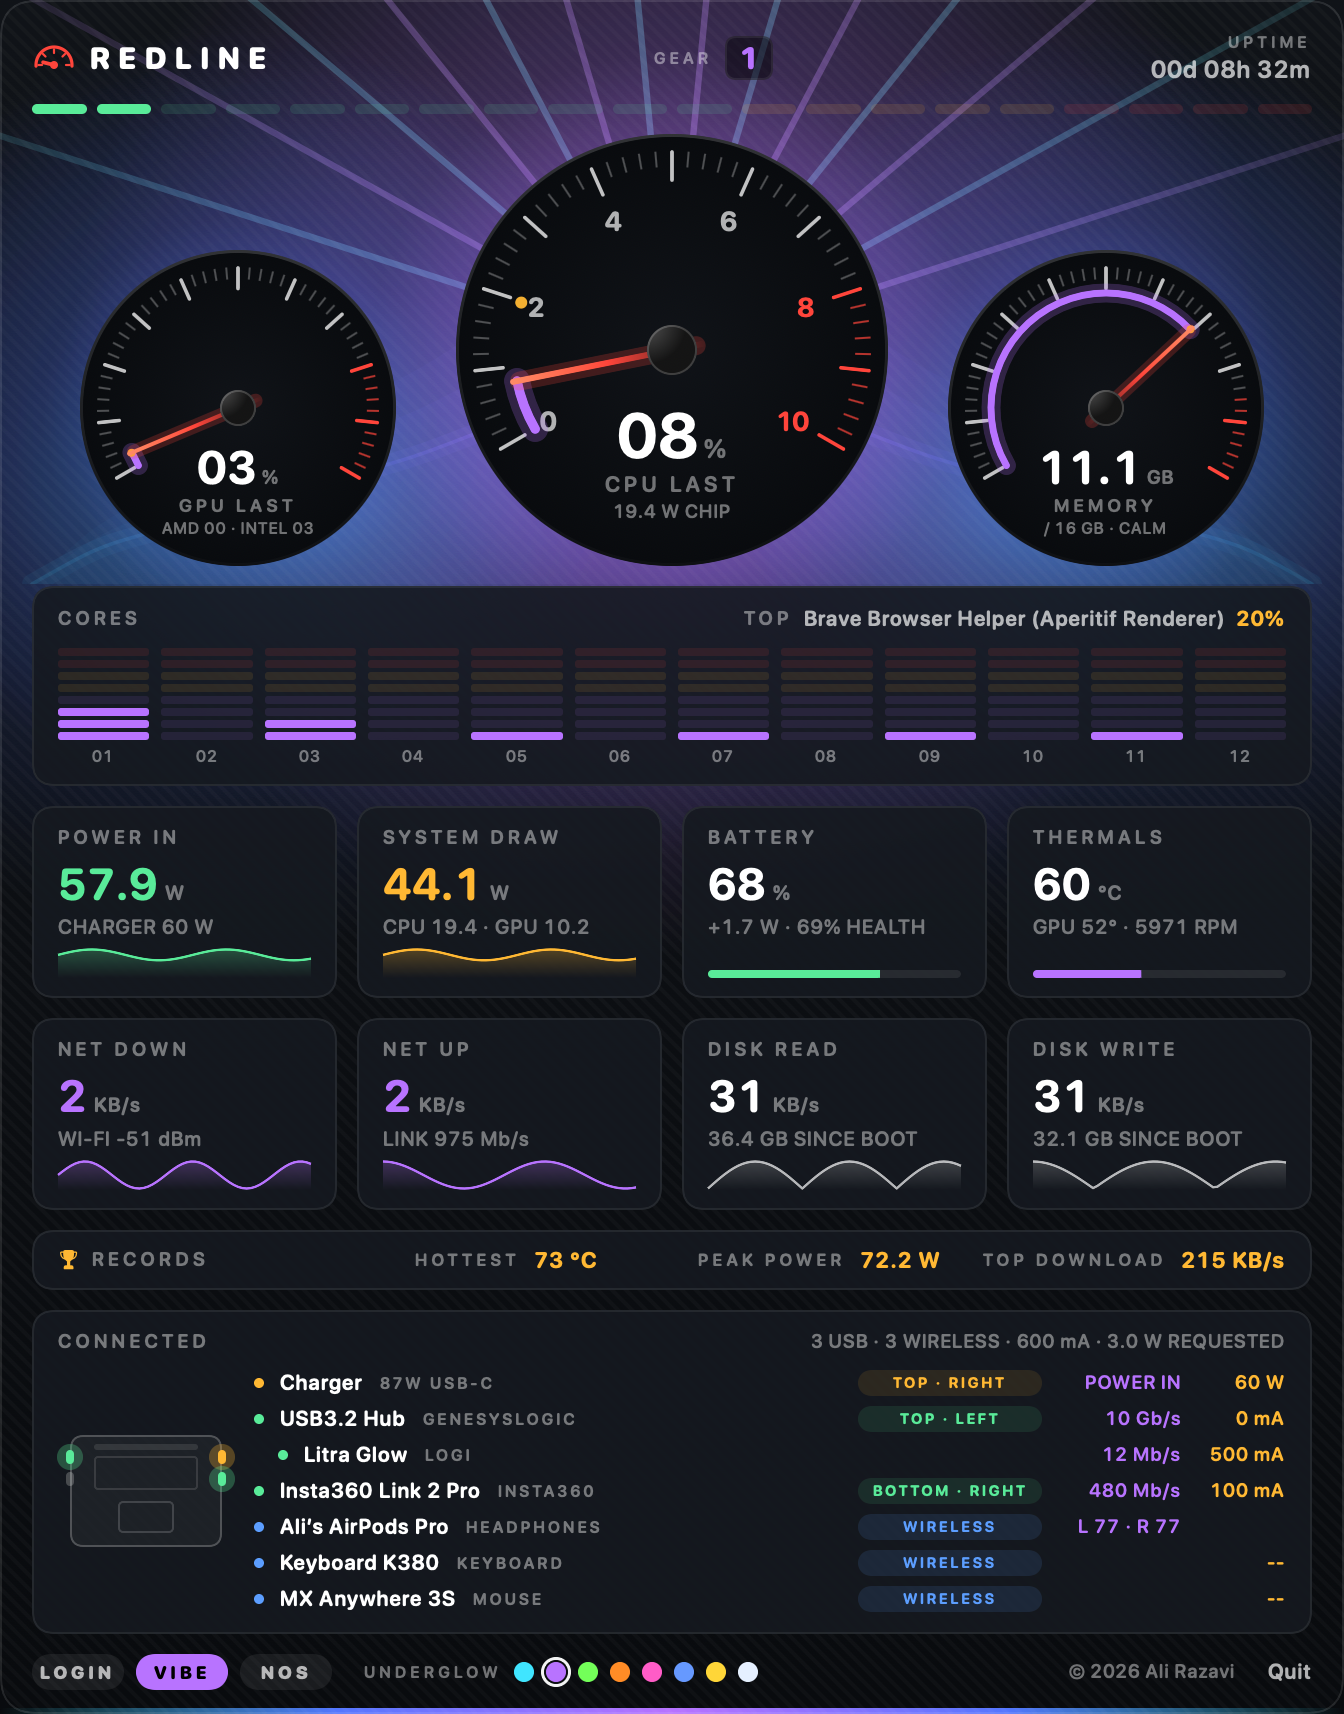
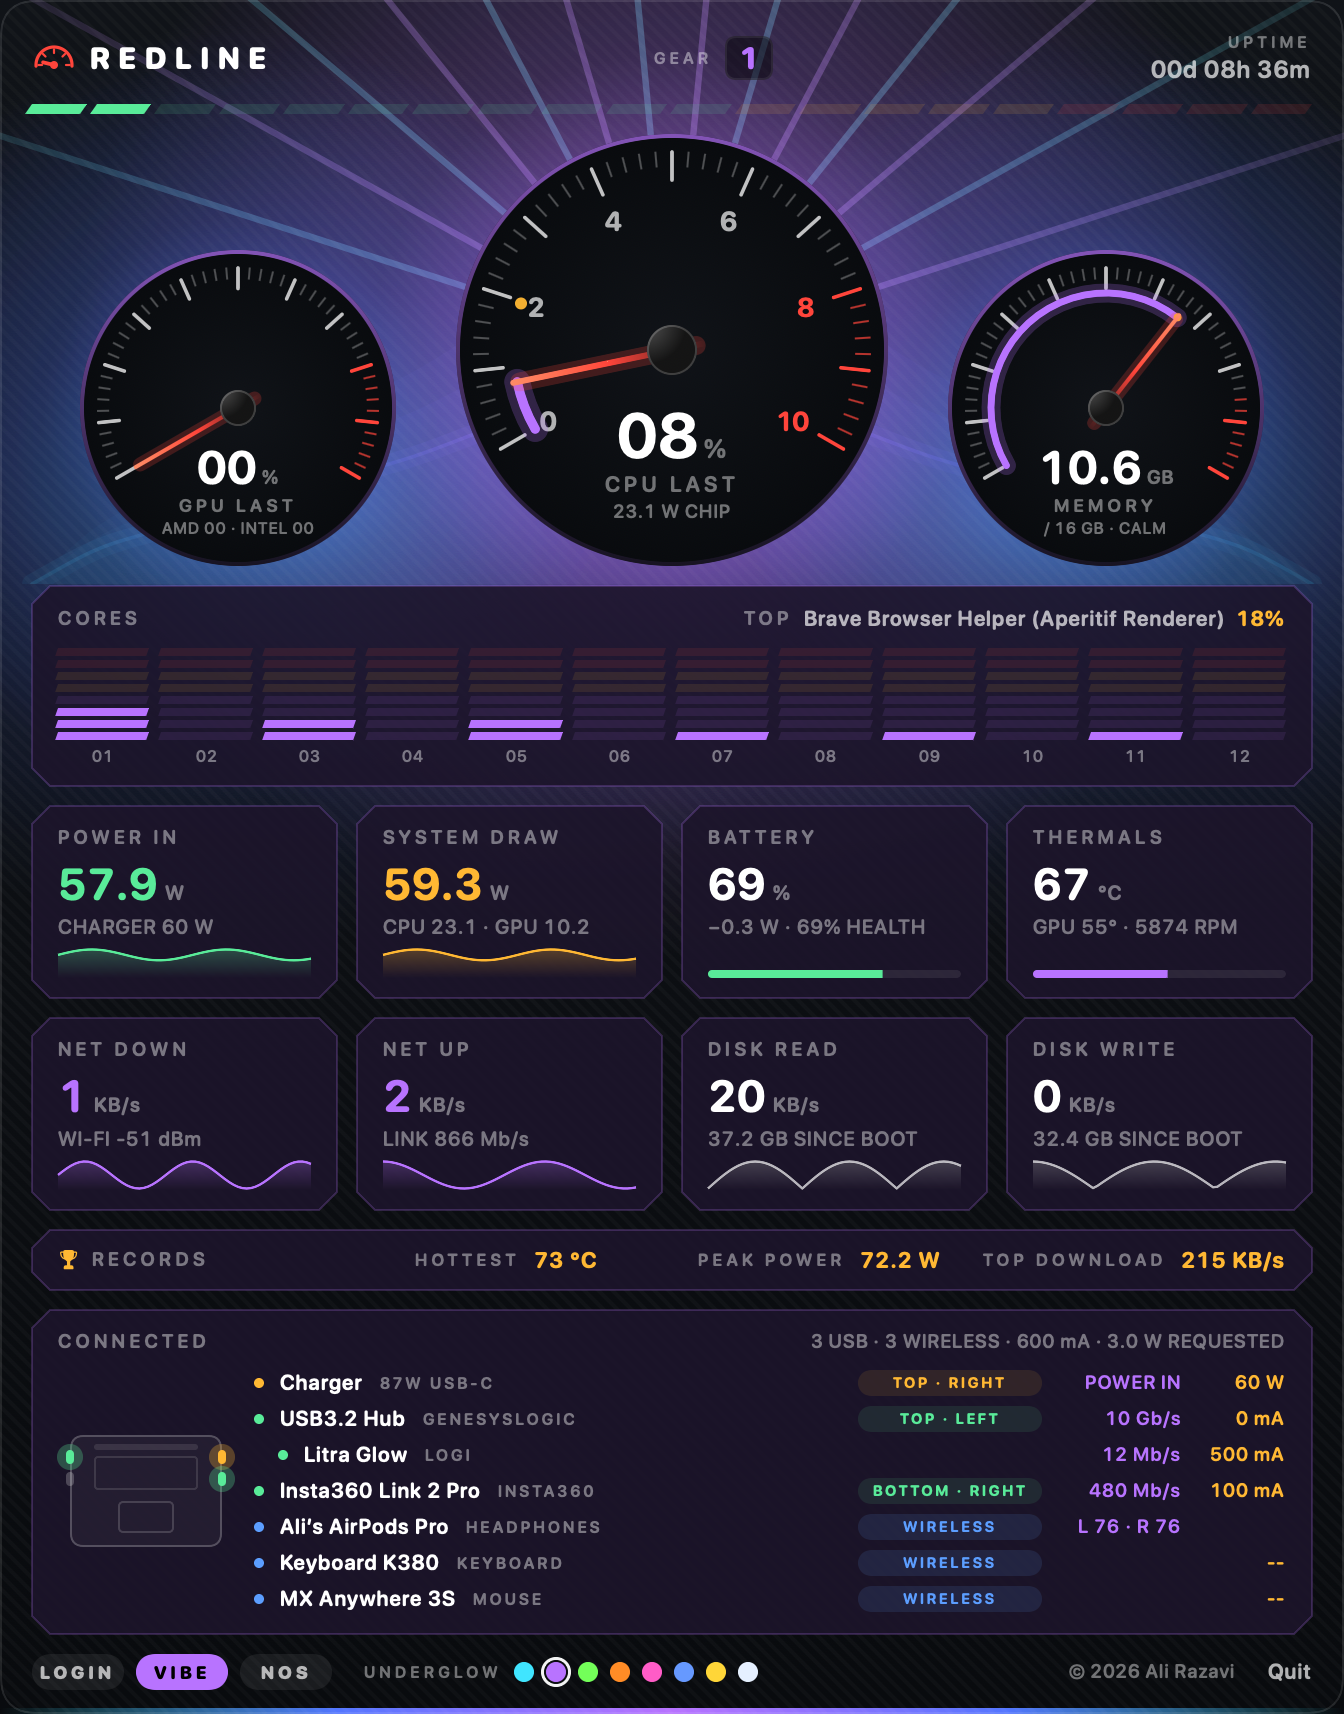
Each look has its own bodywork: box shapes, glass, edges, light shapes and dial rims

diff --git a/src/main.swift b/src/main.swift
@@ -458,6 +458,17 @@ enum Ink {
                                     Color(red: 0.20, green: 0.90, blue: 1.0), Color(red: 0.55, green: 0.75, blue: 1.0), Color(red: 0.66, green: 0.30, blue: 1.0)]
     static let glowNames = ["ICE · CDJ", "NITROUS · LASER", "TOXIC · RADAR", "SUNSET · SUNRISE", "VAPOR · GRID", "GALAXY · WARP", "PRISM · SPECTRUM", "MONO · SCOPE"]
     static let blue = Color(red: 0.36, green: 0.62, blue: 1.0)
+    // Each look also has its own bodywork: the glass the boxes are made of, their edge, and the shape of the little lights.
+    static let glass: [Color] = [tile, Color(red: 0.110, green: 0.080, blue: 0.165).opacity(0.90), Color(red: 0.075, green: 0.110, blue: 0.075).opacity(0.90),
+                                 Color(red: 0.150, green: 0.090, blue: 0.090).opacity(0.90), Color(red: 0.105, green: 0.075, blue: 0.175).opacity(0.90),
+                                 Color(red: 0.055, green: 0.075, blue: 0.160).opacity(0.90), Color(red: 0.095, green: 0.095, blue: 0.105).opacity(0.90),
+                                 Color(red: 0.015, green: 0.015, blue: 0.020).opacity(0.92), Color(red: 0.170, green: 0.045, blue: 0.065).opacity(0.90)]
+    static var tileFill: Color { glass[active] }
+    static var tileLine: Color { active == 0 ? line : (active == 7 ? Color.white.opacity(0.38) : ice.opacity(active == 8 ? 0.50 : 0.22)) }
+    /// How round the little lights are (core LEDs and shift lights): 0 = square, 9 = fully round.
+    static var ledRadius: CGFloat { [1.5, 0, 0.5, 9, 0, 9, 1.5, 0, 0][active] }
+    /// How far the little lights lean forward, as a shear (NOS leans hard).
+    static var ledLean: CGFloat { [0, -0.35, 0, 0, 0, 0, 0, 0, -0.7][active] }
     static let nos = Color(red: 1.0, green: 0.14, blue: 0.24)
     static var glow = UserDefaults.standard.integer(forKey: "glow") % 8      // the underglow you picked
     static var nosOn = false                                                 // NOS overrides it with its own look
@@ -488,7 +499,7 @@ struct DialFace: View, Equatable {
         let r = size / 2
         ZStack {
             Circle().fill(RadialGradient(colors: [Ink.bg1, Ink.bg0], center: .center, startRadius: 0, endRadius: r))
-            Circle().strokeBorder(LinearGradient(colors: hot ? [Ink.red, Ink.red.opacity(0.25)] : [Color.white.opacity(0.16), Color.white.opacity(0.02)], startPoint: .top, endPoint: .bottom), lineWidth: hot ? 2.5 : 1.5)
+            Circle().strokeBorder(LinearGradient(colors: hot ? [Ink.red, Ink.red.opacity(0.25)] : (theme == 0 ? [Color.white.opacity(0.16), Color.white.opacity(0.02)] : (theme == 7 ? [Color.white.opacity(0.75), Color.white.opacity(0.25)] : [Ink.ice.opacity(0.70), Ink.ice.opacity(0.08)])), startPoint: .top, endPoint: .bottom), lineWidth: hot ? 2.5 : (theme == 0 ? 1.5 : 2))
             Canvas { ctx, sz in
                 let c = CGPoint(x: sz.width / 2, y: sz.height / 2), rr = sz.width / 2 - 9
                 for i in 0...50 {
@@ -517,7 +528,7 @@ struct Dial: View {
         let hot = value >= redFrom, col = hot ? Ink.red : Ink.ice
         let frac = 240.0 / 360.0 * min(1, max(0, value))
         ZStack {
-            DialFace(size: size, numbers: numbers, redFrom: redFrom, hot: hot, theme: Ink.glow).equatable()
+            DialFace(size: size, numbers: numbers, redFrom: redFrom, hot: hot, theme: Ink.active).equatable()
             // lit arc: a soft wide stroke under a sharp one gives the glow without a costly blur
             Circle().trim(from: 0, to: frac).stroke(col.opacity(0.22), style: StrokeStyle(lineWidth: size * 0.06, lineCap: .round))
                 .rotationEffect(.degrees(150)).padding(size * 0.135)
@@ -559,8 +570,8 @@ struct CoreStrip: View {
                     VStack(spacing: 2) {
                         ForEach((0..<segs).reversed(), id: \.self) { k in
                             let on = v * Double(segs) > Double(k) + 0.15
-                            RoundedRectangle(cornerRadius: 1.5).fill(k >= segs - 2 ? Ink.red : (k >= segs - 4 ? Ink.amber : Ink.ice))
-                                .opacity(on ? 1 : 0.10)
+                            RoundedRectangle(cornerRadius: Ink.ledRadius).fill(k >= segs - 2 ? Ink.red : (k >= segs - 4 ? Ink.amber : Ink.ice))
+                                .opacity(on ? 1 : 0.10).transformEffect(CGAffineTransform(a: 1, b: 0, c: Ink.ledLean, d: 1, tx: 0, ty: 0))
                                 .frame(height: 4)
                         }
                     }
@@ -608,6 +619,30 @@ struct PortMap: View {
     }
 }
 
+/// The outline of every box on the card. Each look has its own:
+/// ice rounded · nitrous all corners cut · toxic two opposite corners cut · sunset very round · vapor crisp · galaxy soft · prism rounded · mono square · NOS the other two corners cut
+struct TileShape: Shape {
+    func path(in r: CGRect) -> Path {
+        func cut(_ tl: CGFloat, _ tr: CGFloat, _ br: CGFloat, _ bl: CGFloat) -> Path {
+            var p = Path()
+            p.move(to: CGPoint(x: r.minX + tl, y: r.minY)); p.addLine(to: CGPoint(x: r.maxX - tr, y: r.minY)); p.addLine(to: CGPoint(x: r.maxX, y: r.minY + tr))
+            p.addLine(to: CGPoint(x: r.maxX, y: r.maxY - br)); p.addLine(to: CGPoint(x: r.maxX - br, y: r.maxY)); p.addLine(to: CGPoint(x: r.minX + bl, y: r.maxY))
+            p.addLine(to: CGPoint(x: r.minX, y: r.maxY - bl)); p.addLine(to: CGPoint(x: r.minX, y: r.minY + tl)); p.closeSubpath(); return p
+        }
+        let most = min(r.width, r.height) / 2
+        switch Ink.active {
+        case 1: return cut(min(9, most), min(9, most), min(9, most), min(9, most))
+        case 2: return cut(min(14, most), 2, min(14, most), 2)
+        case 3: return Path(roundedRect: r, cornerRadius: min(20, most))
+        case 4: return Path(roundedRect: r, cornerRadius: 3)
+        case 5: return Path(roundedRect: r, cornerRadius: min(15, most))
+        case 7: return Path(r)
+        case 8: return cut(2, min(14, most), 2, min(14, most))
+        default: return Path(roundedRect: r, cornerRadius: 10)
+        }
+    }
+}
+
 /// A small on/off pill for the footer.
 struct Pill: View {
     var text: String; var on: Bool; var tint: Color = Ink.ice; var tip: String; var action: () -> Void
@@ -635,8 +670,8 @@ struct Tile<Bottom: View>: View {
             bottom.frame(height: 15)
         }
         .padding(.horizontal, 13).padding(.vertical, 10).frame(maxWidth: .infinity, minHeight: 96, maxHeight: 96, alignment: .leading)
-        .background(RoundedRectangle(cornerRadius: 10).fill(Ink.tile))
-        .overlay(RoundedRectangle(cornerRadius: 10).strokeBorder(Ink.line, lineWidth: 1))
+        .background(TileShape().fill(Ink.tileFill))
+        .overlay(TileShape().stroke(Ink.tileLine, lineWidth: 1))
     }
 }
 struct Bar: View {
@@ -674,7 +709,7 @@ struct Panel: View {
                     }
                 }
                 .padding(.horizontal, 13).frame(height: 30)
-                .background(RoundedRectangle(cornerRadius: 10).fill(Ink.tile)).overlay(RoundedRectangle(cornerRadius: 10).strokeBorder(Ink.line, lineWidth: 1))
+                .background(TileShape().fill(Ink.tileFill)).overlay(TileShape().stroke(Ink.tileLine, lineWidth: 1))
                 .contentShape(Rectangle())
             }.buttonStyle(.plain).help("All-time highs on this Mac. Click to reset.")
     }
@@ -741,7 +776,7 @@ struct Panel: View {
                     }
                 }
             }
-            .padding(.horizontal, 13).padding(.vertical, 10).background(RoundedRectangle(cornerRadius: 10).fill(Ink.tile)).overlay(RoundedRectangle(cornerRadius: 10).strokeBorder(Ink.line, lineWidth: 1))
+            .padding(.horizontal, 13).padding(.vertical, 10).background(TileShape().fill(Ink.tileFill)).overlay(TileShape().stroke(Ink.tileLine, lineWidth: 1))
     }
     @ViewBuilder private var footer: some View {
             // footer
@@ -793,8 +828,8 @@ struct Panel: View {
             // shift lights
             HStack(spacing: 5) {
                 ForEach(0..<20, id: \.self) { i in
-                    Capsule().fill(i >= 16 ? Ink.red : (i >= 11 ? Ink.amber : Ink.green))
-                        .opacity(v(s.cpu) * 20 > Double(i) + 0.3 ? 1 : 0.12).frame(height: 5)
+                    RoundedRectangle(cornerRadius: min(2.5, Ink.ledRadius * 2)).fill(i >= 16 ? Ink.red : (i >= 11 ? Ink.amber : Ink.green))
+                        .opacity(v(s.cpu) * 20 > Double(i) + 0.3 ? 1 : 0.12).frame(height: 5).transformEffect(CGAffineTransform(a: 1, b: 0, c: Ink.ledLean * 2, d: 1, tx: 0, ty: 0))
                 }
             }.drawingGroup()
             // dials
@@ -819,7 +854,7 @@ struct Panel: View {
                 }
                 CoreStrip(cores: s.cores.map { v($0) })
             }
-            .padding(.horizontal, 13).padding(.vertical, 10).background(RoundedRectangle(cornerRadius: 10).fill(Ink.tile)).overlay(RoundedRectangle(cornerRadius: 10).strokeBorder(Ink.line, lineWidth: 1))
+            .padding(.horizontal, 13).padding(.vertical, 10).background(TileShape().fill(Ink.tileFill)).overlay(TileShape().stroke(Ink.tileLine, lineWidth: 1))
     }
     @ViewBuilder private var tiles: some View {
         let s = m.s
